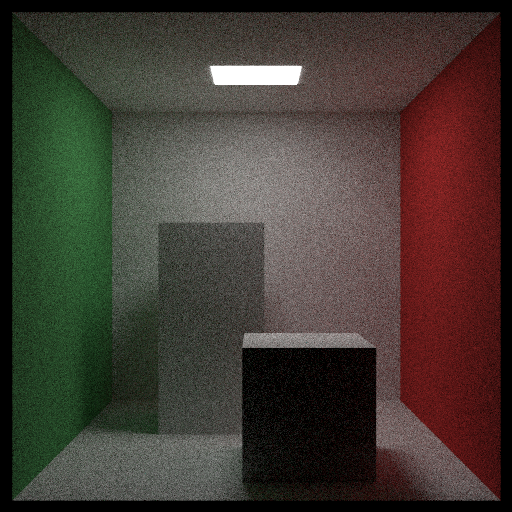
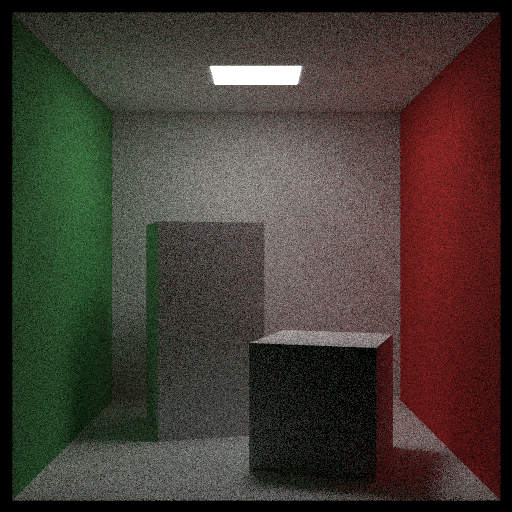
[M] 添加旋转和平移

Changed region(s): [[0.0312, 0.0, 1.0, 1.0]]

diff --git a/RayTracer/Source/Scene/Geometry.hpp b/RayTracer/Source/Scene/Geometry.hpp
@@ -82,4 +82,126 @@ namespace Scene
     private:
         Scene::AABB mBoundingBox;
     };
+
+    class Translate : public Geometry
+    {
+    public:
+        Translate(std::shared_ptr<Geometry> geometry, const Math::Vector3& offset)
+            : mGeometry(geometry)
+            , mOffset(offset)
+        {
+            mBoundingBox = mGeometry->BoundingBox() + mOffset;
+        }
+
+        bool Hit(const Ray& ray, Utilities::Interval rayT, HitPoint& hitPoint) const override
+        {
+            // Move the ray backwards by the offset
+            Ray offsetTrans(ray.Origin() - mOffset, ray.Direction(), ray.Time());
+
+            // Determine where (if any) an intersection occurs along the offset ray
+            if (!mGeometry->Hit(offsetTrans, rayT, hitPoint))
+            {
+                return false;
+            }
+            // Move the intersection point forwards by the offset
+            hitPoint.mPoint += mOffset;
+            return true;
+        }
+
+        Scene::AABB BoundingBox() const override
+        {
+            return mBoundingBox;
+        }
+
+    private:
+        std::shared_ptr<Geometry> mGeometry;
+        Math::Vector3 mOffset;
+        Scene::AABB mBoundingBox;
+    };
+
+    class RotateY : public Geometry
+    {
+    public:
+        RotateY(std::shared_ptr<Geometry> object, double angle) : mGeometry(object)
+        {
+            auto radians = Math::DegreesToRadians(angle);
+            mSinTheta = std::sin(radians);
+            mCosTheta = std::cos(radians);
+            mBoundingBox = mGeometry->BoundingBox();
+
+            Math::Point3 minPoint( Math::Infinity,  Math::Infinity,  Math::Infinity);
+            Math::Point3 maxPoint(-Math::Infinity, -Math::Infinity, -Math::Infinity);
+
+            for (int i = 0; i < 2; i++)
+            {
+                for (int j = 0; j < 2; j++)
+                {
+                    for (int k = 0; k < 2; k++)
+                    {
+                        auto x = i * mBoundingBox.mX.mMax + (1 - i) * mBoundingBox.mX.mMin;
+                        auto y = j * mBoundingBox.mY.mMax + (1 - j) * mBoundingBox.mY.mMin;
+                        auto z = k * mBoundingBox.mZ.mMax + (1 - k) * mBoundingBox.mZ.mMin;
+
+                        auto newX =  mCosTheta * x + mSinTheta * z;
+                        auto newZ = -mSinTheta * x + mCosTheta * z;
+
+                        Math::Vector3 tester(newX, y, newZ);
+
+                        for (int c = 0; c < 3; c++)
+                        {
+                            minPoint[c] = std::fmin(minPoint[c], tester[c]);
+                            maxPoint[c] = std::fmax(maxPoint[c], tester[c]);
+                        }
+                    }
+                }
+            }
+            mBoundingBox = Scene::AABB(minPoint, maxPoint);
+        }
+
+        bool Hit(const Ray& ray, Utilities::Interval rayT, HitPoint& hitPoint) const override
+        {
+            // Change the ray from world space to object space
+            auto origin = ray.Origin();
+            auto direction = ray.Direction();
+
+            origin[0] = mCosTheta * ray.Origin()[0] - mSinTheta * ray.Origin()[2];
+            origin[2] = mSinTheta * ray.Origin()[0] + mCosTheta * ray.Origin()[2];
+            direction[0] = mCosTheta * ray.Direction()[0] - mSinTheta * ray.Direction()[2];
+            direction[2] = mSinTheta * ray.Direction()[0] + mCosTheta * ray.Direction()[2];
+
+            Ray rotatedRay(origin, direction, ray.Time());
+
+            // Determine whether an intersection exists in object space (and if so, where)
+            if (!mGeometry->Hit(rotatedRay, rayT, hitPoint))
+            {
+                return false;
+            }
+
+            // Change the intersection point from object space to world space
+            auto p = hitPoint.mPoint;
+            p[0] =  mCosTheta * hitPoint.mPoint[0] + mSinTheta * hitPoint.mPoint[2];
+            p[2] = -mSinTheta * hitPoint.mPoint[0] + mCosTheta * hitPoint.mPoint[2];
+            
+            // Change the normal from object space to world space
+            auto normal = hitPoint.mNormal;
+            normal[0] =  mCosTheta * hitPoint.mNormal[0] + mSinTheta * hitPoint.mNormal[2];
+            normal[2] = -mSinTheta * hitPoint.mNormal[0] + mCosTheta * hitPoint.mNormal[2];
+
+            hitPoint.mPoint = p;
+            hitPoint.mNormal = normal;
+
+            return true;
+        }
+
+        Scene::AABB BoundingBox() const override
+        {
+            return mBoundingBox;
+        }
+
+    private:
+        std::shared_ptr<Geometry> mGeometry;
+        double mSinTheta;
+        double mCosTheta;
+        Scene::AABB mBoundingBox;
+    };
 }

diff --git a/RayTracer/Source/Scene/Worlds.cpp b/RayTracer/Source/Scene/Worlds.cpp
@@ -172,7 +172,7 @@ namespace Scene
         camera.mImageWidth = 512;
         camera.mImageHeight = 512;
         camera.mSamplesPerPixel = 100;
-        camera.mMaxDepth = 50;
+        camera.mMaxDepth = 100;
 
         Scene::GeometryList world;
 
@@ -188,9 +188,14 @@ namespace Scene
         world.Add(std::make_shared<Scene::Quad>(Math::Point3(555, 555, 555), Math::Vector3(-555, 0, 0), Math::Vector3(0, 0, -555), white));
         world.Add(std::make_shared<Scene::Quad>(Math::Point3(343, 554, 332), Math::Vector3(-130, 0, 0), Math::Vector3(0, 0, -105), light));
 
-        // world.Add(std::make_shared<Scene::Sphere>(Math::Point3(190, 90, 190), 90, std::make_shared<Scene::Dielectric>(1.5)));
-        world.Add(Scene::Box(Math::Point3(130, 0, 65), Math::Point3(295, 165, 230), white));
-        world.Add(Scene::Box(Math::Point3(265, 0, 295), Math::Point3(430, 330, 460), white));
+        std::shared_ptr<Geometry> box1 = Scene::Box(Math::Point3(0, 0, 0), Math::Point3(165, 330, 165), white);
+        box1 = std::make_shared<Scene::RotateY>(box1, 15);
+        box1 = std::make_shared<Scene::Translate>(box1, Math::Vector3(265, 0, 295));
+        world.Add(box1);
+        std::shared_ptr<Geometry> box2 = Scene::Box(Math::Point3(0, 0, 0), Math::Point3(165, 165, 165), white);
+        box2 = std::make_shared<Scene::RotateY>(box2, -18);
+        box2 = std::make_shared<Scene::Translate>(box2, Math::Vector3(130, 0, 65));
+        world.Add(box2);
 
         return Scene::GeometryList(std::make_shared<Scene::BVHNode>(world));
     }

diff --git a/RayTracer/Source/Scene/AABB.hpp b/RayTracer/Source/Scene/AABB.hpp
@@ -74,4 +74,14 @@ namespace Scene
         Utilities::Interval mY;
         Utilities::Interval mZ;
     };
+    
+    inline AABB operator+(const AABB& box, const Math::Point3& offset)
+    {
+        return AABB(box.mX + offset.x(), box.mY + offset.y(), box.mZ + offset.z());
+    }
+
+    inline AABB operator+(const Math::Point3& offset, const AABB& box)
+    {
+        return box + offset;
+    }
 }

diff --git a/RayTracer/Source/Utilities/Interval.hpp b/RayTracer/Source/Utilities/Interval.hpp
@@ -57,4 +57,14 @@ namespace Utilities
         static const Interval Empty;
         static const Interval Universe;
     };
+
+    inline Interval operator+(const Interval& iVal, double offset)
+    {
+        return Interval(iVal.mMin + offset, iVal.mMax + offset);
+    }
+
+    inline Interval operator+(double offset, const Interval& iVal)
+    {
+        return iVal + offset;
+    }
 }
